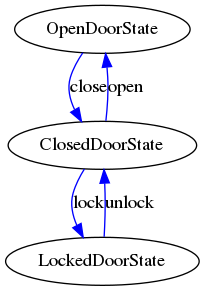
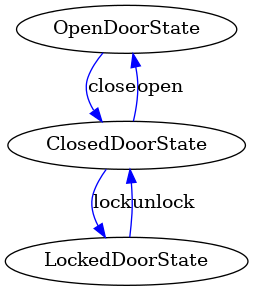
Enable generation of denatured images

diff --git a/src/visualiser/SMVisualiser.js b/src/visualiser/SMVisualiser.js
@@ -2,6 +2,7 @@ import fs from "fs";
 import DefParser from "../definition/DefParser";
 import path from "path";
 import { exec } from "child_process";
+import denatureSpec from "./denatureSpec";
 
 /**
  * Generates a state machine based on an XML configuration
@@ -11,7 +12,7 @@ import { exec } from "child_process";
  * Generates the main class, state classes, abstract class and illegal state transition class
  */
 class SMVisualiser {
-  create(defFileName, defsDir, diagramLoc) {
+  create(defFileName, defsDir, diagramLoc, genDenatured) {
     // the basic class name of the SM
     const className = this.getSMClassName(defFileName);
     console.log(`Visualising: ${className}`);
@@ -25,7 +26,14 @@ class SMVisualiser {
     this.checkDirExists(diagramLoc);
 
     const spec = DefParse.getSpecification();
-    const states = spec.states;
+    let states = spec.states;
+
+    let denaturedFileName = "";
+
+    if (genDenatured == true) {
+      denaturedFileName = "_denatured";
+      states = denatureSpec(states);
+    }
 
     // get dot file output
     const output = this.getDotFileOutput(className, states);
@@ -35,7 +43,7 @@ class SMVisualiser {
     fs.writeFileSync(dotOutputFilename, output, "utf8");
 
     // convert to png
-    const pngOutputFilename = `${diagramLoc}/${className}.png`;
+    const pngOutputFilename = `${diagramLoc}/${className}${denaturedFileName}.png`;
     this.convertToPng(dotOutputFilename, pngOutputFilename);
   }
 
@@ -67,14 +75,7 @@ class SMVisualiser {
 
       for (var operation in trans) {
         var to = trans[operation];
-        output +=
-          '"' +
-          state +
-          '" -> "' +
-          to +
-          '" [ color=blue, label = "' +
-          operation +
-          '"];\n';
+        output += '"' + state + '" -> "' + to + '" [ color=blue, label = "' + operation + '"];\n';
       }
     }
 

diff --git a/src/visualiser/denatureSpec.js b/src/visualiser/denatureSpec.js
@@ -1,0 +1,32 @@
+/**
+ * Makes the SM information anonymous.
+ */
+export default function denatureSpec(states) {
+  let outputStates = {};
+
+  let stateLookup = [];
+
+  let stateCounter = 0;
+  for (let stateName in states) {
+    stateCounter++;
+
+    stateLookup[stateName] = `State_${stateCounter}`;
+  }
+
+  let transitionCounter = 0;
+  for (let stateName in states) {
+    const state = states[stateName];
+    const transitions = state.transitions;
+
+    const newTrans = [];
+    for (let transition in transitions) {
+      transitionCounter++;
+      const getTransState = transitions[transition];
+      const transNewName = `Transition_${transitionCounter}`;
+      newTrans[transNewName] = stateLookup[getTransState];
+    }
+    const newStateName = stateLookup[stateName];
+    outputStates[newStateName] = { transitions: newTrans };
+  }
+  return outputStates;
+}

diff --git a/src/visualise.js b/src/visualise.js
@@ -8,15 +8,21 @@ const baseDirRaw = args[0];
 const baseDir = cleanArgStrings(baseDirRaw);
 const defsDir = baseDir + "/_defs";
 const diagramLoc = defsDir + "/diagrams";
+let genDenatured = false;
+
+// check if we should generate a denatured diagram
+if (typeof args[1] !== "undefined") {
+  genDenatured = true;
+}
 
 try {
   // get a list of the SMs defined in the _defs directory
   const defFiles = getDefFilesArray(defsDir);
   console.log(defFiles);
 
-  defFiles.forEach(defFileName => {
+  defFiles.forEach((defFileName) => {
     let generator = new SMVisualiser();
-    generator.create(defFileName, defsDir, diagramLoc);
+    generator.create(defFileName, defsDir, diagramLoc, genDenatured);
   });
 
   console.log("Visualisation complete");
